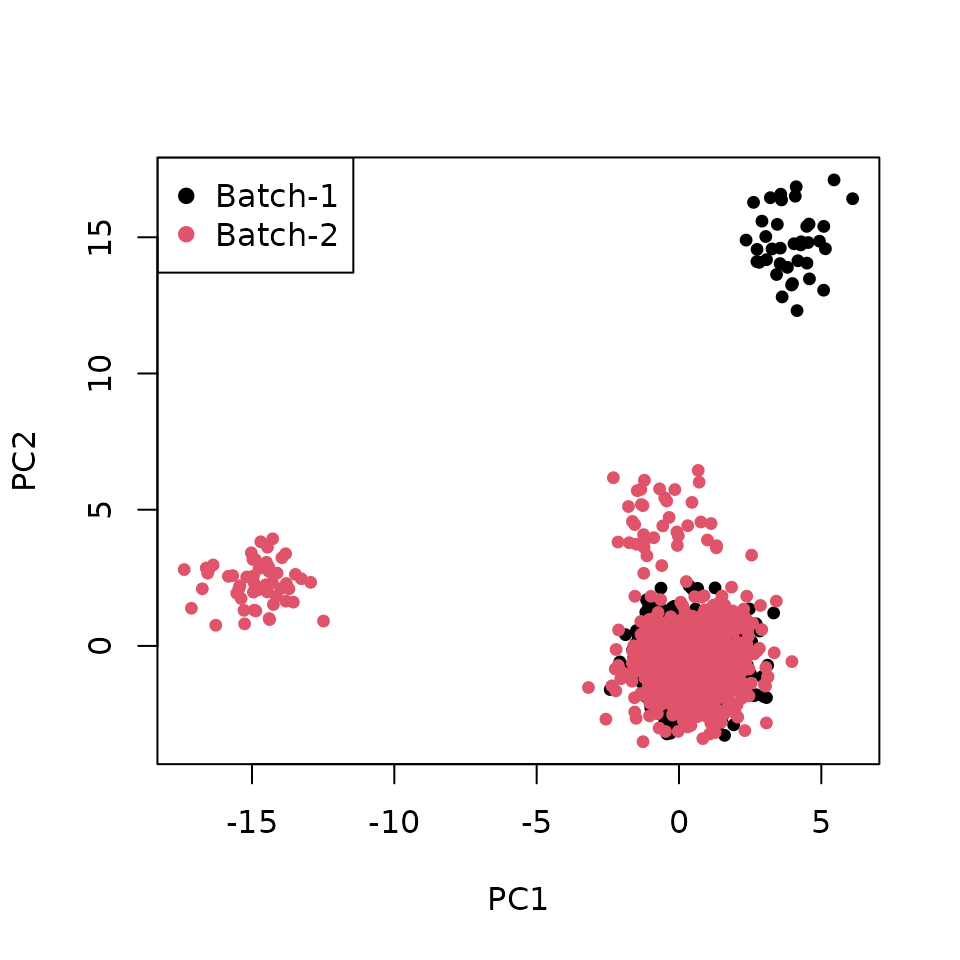
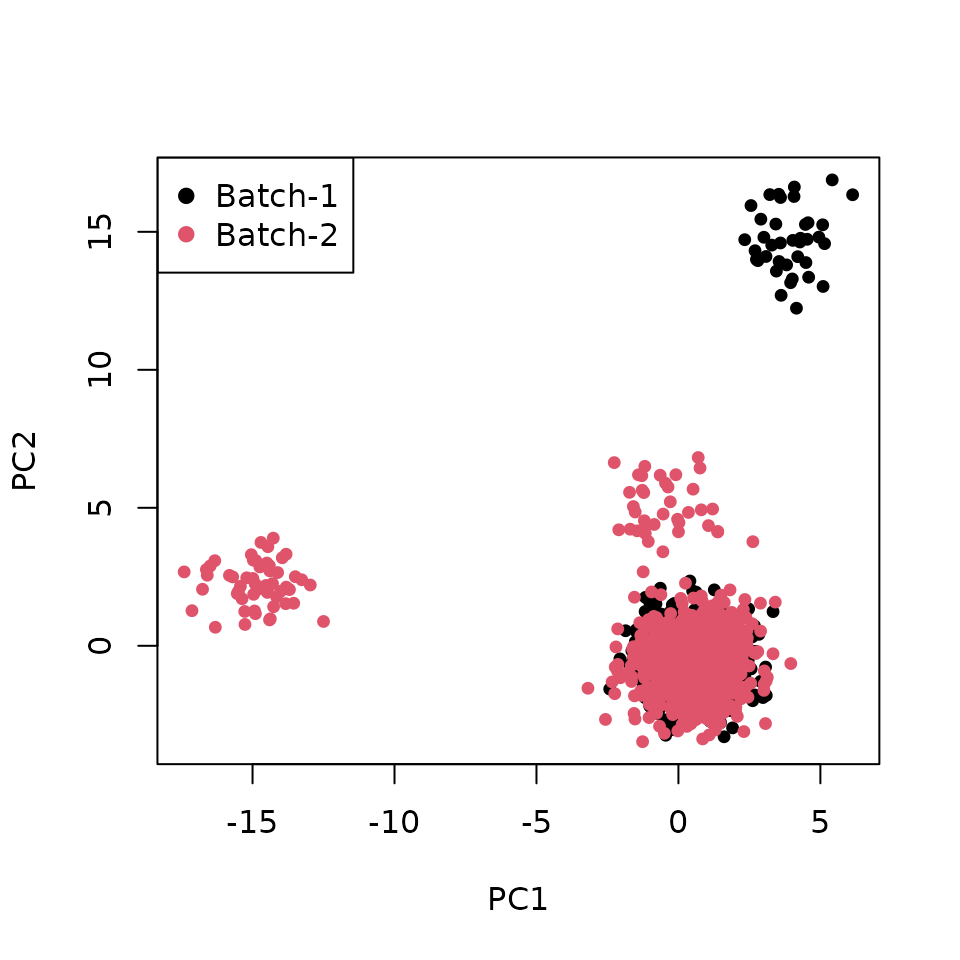
Built site for Canek: 0.2.1@a9cb3d6

diff --git a/index.html b/index.html
@@ -41,7 +41,7 @@
       </button>
       <span class="navbar-brand">
         <a class="navbar-link" href="index.html">Canek</a>
-        <span class="version label label-default" data-toggle="tooltip" data-placement="bottom" title="">0.2.0</span>
+        <span class="version label label-default" data-toggle="tooltip" data-placement="bottom" title="">0.2.1</span>
       </span>
     </div>
 
@@ -119,11 +119,11 @@
 <span class="va">res</span> <span class="op">&lt;-</span> <span class="fu"><a href="reference/RunCanek.html">RunCanek</a></span><span class="op">(</span><span class="va">SimBatches</span><span class="op">$</span><span class="va">batches</span><span class="op">)</span>
 <span class="va">res</span><span class="op">[</span><span class="fl">1</span><span class="op">:</span><span class="fl">5</span>, <span class="fl">1</span><span class="op">:</span><span class="fl">5</span><span class="op">]</span>
 <span class="co">#&gt;          Cell1    Cell2    Cell3    Cell4    Cell5</span>
-<span class="co">#&gt; Gene1 6.153816 6.218394 6.955690 6.682506 6.599896</span>
-<span class="co">#&gt; Gene2 6.925125 7.046951 7.335873 7.623013 7.017121</span>
-<span class="co">#&gt; Gene3 5.451978 6.140471 6.149198 6.046806 6.158075</span>
-<span class="co">#&gt; Gene4 6.793623 7.044712 6.857325 6.274883 6.287759</span>
-<span class="co">#&gt; Gene5 2.791353 2.271425 4.410185 2.571911 3.155063</span></code></pre></div>
+<span class="co">#&gt; Gene1 6.145644 6.228590 6.960904 6.665023 6.586427</span>
+<span class="co">#&gt; Gene2 6.919552 7.048549 7.328128 7.649456 7.005002</span>
+<span class="co">#&gt; Gene3 5.468337 6.115350 6.146068 6.085750 6.142014</span>
+<span class="co">#&gt; Gene4 6.810614 7.076788 6.872226 6.359445 6.303407</span>
+<span class="co">#&gt; Gene5 2.848188 2.160687 4.454532 2.467829 3.165861</span></code></pre></div>
 <p>For more tutorials using Canek check out our github page and vignettes:</p>
 <ul>
 <li><a href="https://martinloza.github.io/Canek/index.html" class="external-link">Canek website</a></li>

diff --git a/news/index.html b/news/index.html
@@ -23,7 +23,7 @@
       </button>
       <span class="navbar-brand">
         <a class="navbar-link" href="../index.html">Canek</a>
-        <span class="version label label-default" data-toggle="tooltip" data-placement="bottom" title="">0.2.0</span>
+        <span class="version label label-default" data-toggle="tooltip" data-placement="bottom" title="">0.2.1</span>
       </span>
     </div>
 
@@ -60,6 +60,13 @@
       
     </div>
 
+    <div class="section level2">
+<h2 class="page-header" data-toc-text="0.2.1" id="canek-021">Canek 0.2.1<a class="anchor" aria-label="anchor" href="#canek-021"></a></h2>
+<div class="section level3">
+<h3 id="changes-0-2-1">Changes<a class="anchor" aria-label="anchor" href="#changes-0-2-1"></a></h3>
+<ul><li>Fix error in <code>test-Clustering</code> unit-test for latest <code>igraph</code> version. (<a href="https://github.com/MartinLoza/Canek/issues/7" class="external-link">#7</a>)</li>
+</ul></div>
+</div>
     <div class="section level2">
 <h2 class="page-header" data-toc-text="0.2.0" id="canek-020">Canek 0.2.0<small>2022-03-23</small><a class="anchor" aria-label="anchor" href="#canek-020"></a></h2>
 <ul><li>Initial release to CRAN</li>

diff --git a/articles/toy_example.html b/articles/toy_example.html
@@ -39,7 +39,7 @@
       </button>
       <span class="navbar-brand">
         <a class="navbar-link" href="../index.html">Canek</a>
-        <span class="version label label-default" data-toggle="tooltip" data-placement="bottom" title="">0.2.0</span>
+        <span class="version label label-default" data-toggle="tooltip" data-placement="bottom" title="">0.2.1</span>
       </span>
     </div>
 
@@ -193,7 +193,7 @@
 <span class="co">#&gt; [1] stats     graphics  grDevices utils     datasets  methods   base     </span>
 <span class="co">#&gt; </span>
 <span class="co">#&gt; other attached packages:</span>
-<span class="co">#&gt; [1] Canek_0.2.0</span>
+<span class="co">#&gt; [1] Canek_0.2.1</span>
 <span class="co">#&gt; </span>
 <span class="co">#&gt; loaded via a namespace (and not attached):</span>
 <span class="co">#&gt;  [1] modeltools_0.2-23    xfun_0.30            bslib_0.3.1         </span>

diff --git a/404.html b/404.html
@@ -38,7 +38,7 @@
       </button>
       <span class="navbar-brand">
         <a class="navbar-link" href="https://MartinLoza.github.io/Canek/index.html">Canek</a>
-        <span class="version label label-default" data-toggle="tooltip" data-placement="bottom" title="">0.2.0</span>
+        <span class="version label label-default" data-toggle="tooltip" data-placement="bottom" title="">0.2.1</span>
       </span>
     </div>
 

diff --git a/articles/index.html b/articles/index.html
@@ -23,7 +23,7 @@
       </button>
       <span class="navbar-brand">
         <a class="navbar-link" href="../index.html">Canek</a>
-        <span class="version label label-default" data-toggle="tooltip" data-placement="bottom" title="">0.2.0</span>
+        <span class="version label label-default" data-toggle="tooltip" data-placement="bottom" title="">0.2.1</span>
       </span>
     </div>
 

diff --git a/articles/seurat.html b/articles/seurat.html
@@ -39,7 +39,7 @@
       </button>
       <span class="navbar-brand">
         <a class="navbar-link" href="../index.html">Canek</a>
-        <span class="version label label-default" data-toggle="tooltip" data-placement="bottom" title="">0.2.0</span>
+        <span class="version label label-default" data-toggle="tooltip" data-placement="bottom" title="">0.2.1</span>
       </span>
     </div>
 

diff --git a/reference/Canek-package.html b/reference/Canek-package.html
@@ -23,7 +23,7 @@
       </button>
       <span class="navbar-brand">
         <a class="navbar-link" href="../index.html">Canek</a>
-        <span class="version label label-default" data-toggle="tooltip" data-placement="bottom" title="">0.2.0</span>
+        <span class="version label label-default" data-toggle="tooltip" data-placement="bottom" title="">0.2.1</span>
       </span>
     </div>
 

diff --git a/reference/CheckZeroCV.html b/reference/CheckZeroCV.html
@@ -23,7 +23,7 @@
       </button>
       <span class="navbar-brand">
         <a class="navbar-link" href="../index.html">Canek</a>
-        <span class="version label label-default" data-toggle="tooltip" data-placement="bottom" title="">0.2.0</span>
+        <span class="version label label-default" data-toggle="tooltip" data-placement="bottom" title="">0.2.1</span>
       </span>
     </div>
 

diff --git a/reference/CorrectBatch.html b/reference/CorrectBatch.html
@@ -23,7 +23,7 @@
       </button>
       <span class="navbar-brand">
         <a class="navbar-link" href="../index.html">Canek</a>
-        <span class="version label label-default" data-toggle="tooltip" data-placement="bottom" title="">0.2.0</span>
+        <span class="version label label-default" data-toggle="tooltip" data-placement="bottom" title="">0.2.1</span>
       </span>
     </div>
 

diff --git a/reference/CorrectBatches.html b/reference/CorrectBatches.html
@@ -23,7 +23,7 @@
       </button>
       <span class="navbar-brand">
         <a class="navbar-link" href="../index.html">Canek</a>
-        <span class="version label label-default" data-toggle="tooltip" data-placement="bottom" title="">0.2.0</span>
+        <span class="version label label-default" data-toggle="tooltip" data-placement="bottom" title="">0.2.1</span>
       </span>
     </div>
 

diff --git a/reference/EkfBE.html b/reference/EkfBE.html
@@ -23,7 +23,7 @@
       </button>
       <span class="navbar-brand">
         <a class="navbar-link" href="../index.html">Canek</a>
-        <span class="version label label-default" data-toggle="tooltip" data-placement="bottom" title="">0.2.0</span>
+        <span class="version label label-default" data-toggle="tooltip" data-placement="bottom" title="">0.2.1</span>
       </span>
     </div>
 

diff --git a/reference/Fuzzy.html b/reference/Fuzzy.html
@@ -23,7 +23,7 @@
       </button>
       <span class="navbar-brand">
         <a class="navbar-link" href="../index.html">Canek</a>
-        <span class="version label label-default" data-toggle="tooltip" data-placement="bottom" title="">0.2.0</span>
+        <span class="version label label-default" data-toggle="tooltip" data-placement="bottom" title="">0.2.1</span>
       </span>
     </div>
 
